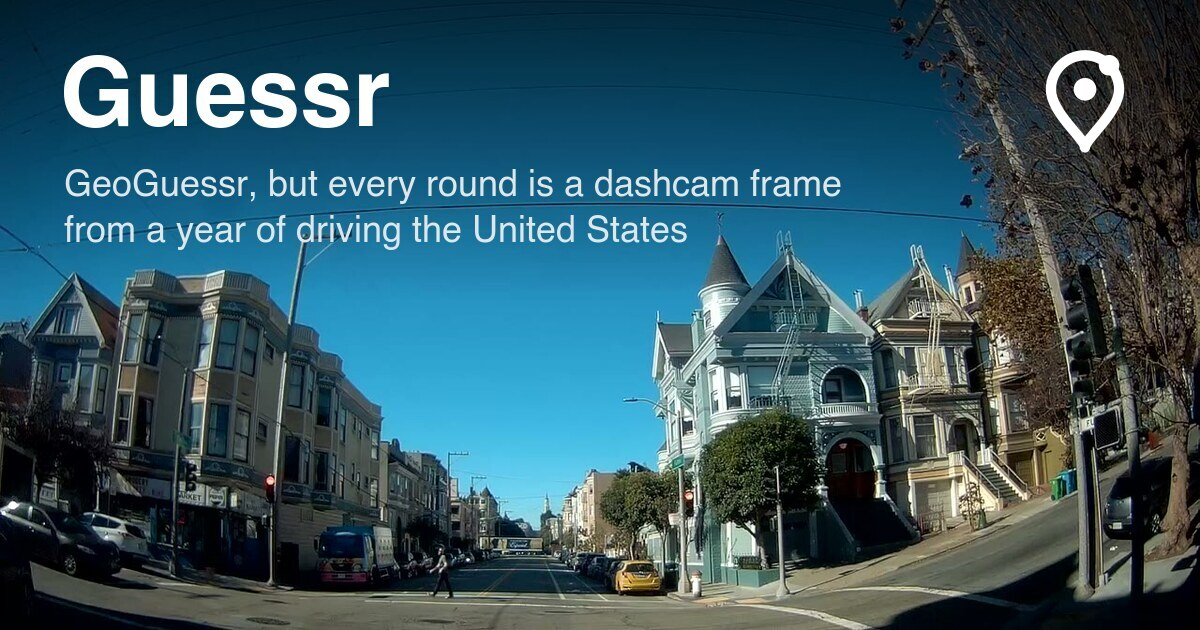
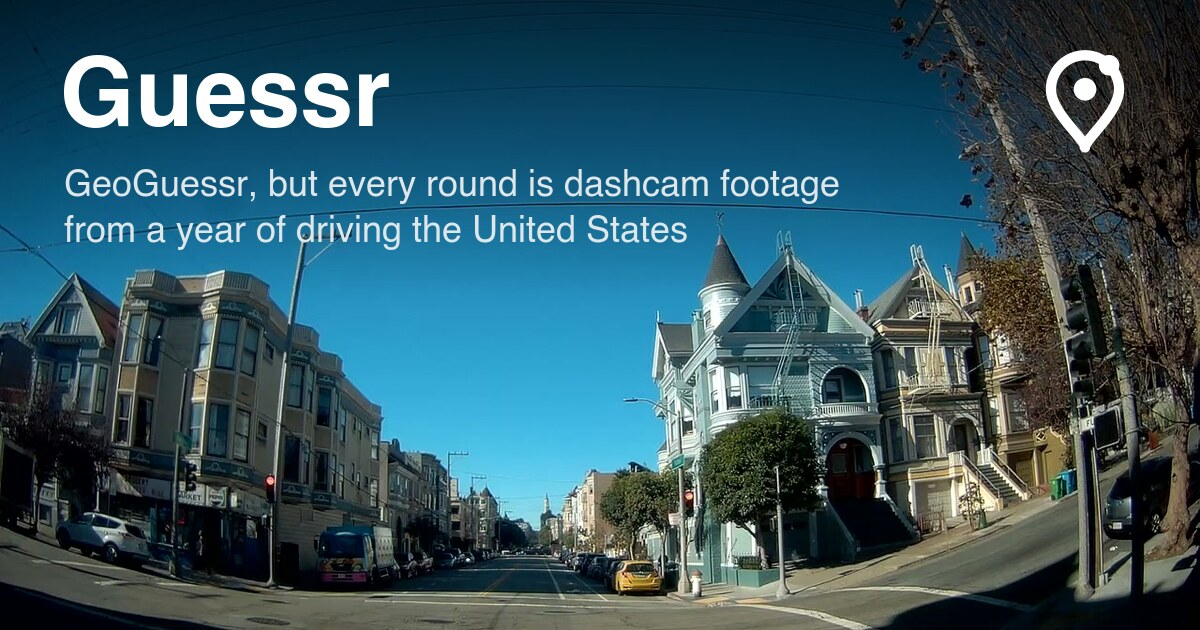
docs(web): say footage where the copy still said photo
The page was written for a still and describes one throughout: the
welcome dialog asks where a "screenshot" was taken, calls it "this
photo", and promises "the same photos" daily; the About panel says every
round is "a real frame from a dashcam".

The About panel also now mentions the pause and the zoom. Both are
undiscoverable otherwise -- one is a glyph in a corner and the other is
a scroll gesture -- and About is where this game explains its mechanics.

The share card had the same line baked into it, which mattered more than
the rest put together: the link preview is the whole distribution
mechanism, so "every round is a dashcam frame" was the wrong sentence on
the most-copied artifact here.

Rebuilding it meant finding the frame it was made from, which the README
recorded as lost. It was recoverable: scanning every San Francisco clip
in the corpus for the one whose untexted lower band matched the card
picks out 2018_1107_182338_002_opt at 0.039 RMSE, against 0.20+ for
every other candidate. The recipe now names that clip and timestamp
rather than a round-set frame, so it survives the next regeneration --
the round set is regenerable and the corpus is not.

diff --git a/web/index.html b/web/index.html
@@ -201,7 +201,7 @@
   /* Same number and same band colour as the pin on the map, which is the only
      thing tying a thumbnail to the answer it belongs to.
      The badges here and on the map keep fixed colours and a sans face rather
-     than following the theme: both sit on top of a photograph or a map tile,
+     than following the theme: both sit on top of footage or a map tile,
      neither of which changes with it, and at 11px ET Book is mush. */
   #sheet .cap { position: absolute; top: 4px; left: 4px;
                 display: flex; align-items: center; gap: .3rem;
@@ -213,10 +213,10 @@
   #mapwrap { min-height: 0; }
   #map { height: 100%; background: var(--color-bg); }
   /* While a round is being guessed the frame takes the whole pane and the map
-     rides over its bottom-right corner. The frame is a 1280px still and
-     squinting at it is the entire game, whereas the map only matters for the
-     few seconds spent placing a pin — an even split spends half the window on
-     the half that matters least, and puts the frame well under 1:1.
+     rides over its bottom-right corner. The frame is 1280px wide and squinting
+     at it is the entire game, whereas the map only matters for the few seconds
+     spent placing a pin — an even split spends half the window on the half that
+     matters least, and puts the frame well under 1:1.
      Hover or keyboard focus grows it; `wide` pins it open once the answer is
      revealed, when the map becomes the thing worth reading. `minimap` comes off
      entirely for the end-of-game board and the all-time map, which want the
@@ -234,7 +234,8 @@
                             border-radius: 8px; overflow: hidden;
                             /* Unthemed, like the badges: this floats on the
                                frame, and a border in the page's own colours
-                               vanishes into whatever the photo happens to be. */
+                               vanishes into whatever the footage happens to
+                               be. */
                             border: 2px solid #0006;
                             box-shadow: 0 8px 24px rgba(0, 0, 0, .4); }
     main.minimap #mapwrap:hover, main.minimap #mapwrap:focus-within,
@@ -292,9 +293,12 @@
   <details id="about" class="stat">
     <summary>about<span class="dot" id="aboutDot" hidden></span></summary>
     <div class="panel">
-      <p>Every round is a real frame from a dashcam, filmed on a year-long drive
-        around the United States in 2018. Five rounds a day, the same five for
-        everyone. Practice rounds are unlimited.</p>
+      <p>Every round is a few seconds of real dashcam footage, filmed on a
+        year-long drive around the United States in 2018. Five rounds a day, the
+        same five for everyone. Practice rounds are unlimited.</p>
+      <p>The clip loops. Pause it with the button in its corner or the space
+        bar, and zoom in &mdash; a road sign or a storefront is often legible
+        close up and unreadable at a glance.</p>
       <p>The footage comes from <b>A Dana Life</b>, which streams that drive
         around the clock &mdash; the whole trip, in order, forever. On Twitch a
         chat bot runs the same game against the live feed: type !guess to call
@@ -328,9 +332,9 @@
   </details>
 </header>
 <dialog id="welcome">
-  <h2>Drop a pin where you think this dashcam screenshot was taken</h2>
-  <p>This photo was taken during a year of travel in a campervan.</p>
-  <p>Everyone gets the same photos, refreshing daily</p>
+  <h2>Drop a pin where you think this dashcam footage was filmed</h2>
+  <p>These few seconds were filmed during a year of travel in a campervan.</p>
+  <p>Everyone gets the same clips, refreshing daily</p>
   <div class="actions">
     <button id="welcomePlay" autofocus>Play</button>
     <button id="welcomeMore" class="secondary">Learn more</button>

diff --git a/README.md b/README.md
@@ -265,11 +265,16 @@ and the icon, nothing else.
 mechanism: this game spreads by people pasting a URL. It's a hand-picked frame
 with the title and the mark set over it, made once and committed:
 
+It is cut straight from the corpus rather than from a round clip, so it does not
+go stale when the round set is regenerated — `2018_1107_182338_002_opt` at
+87.9s, a Victorian intersection in San Francisco:
+
 ```sh
 rsvg-convert -w 110 -h 110 web/favicon.svg -o /tmp/mark.png
 magick /tmp/mark.png -channel RGB -fill white -colorize 100 +channel /tmp/mark-white.png
 
-ffmpeg -y -ss 1.5 -i web/clips/<clip>.mp4 -frames:v 1 -q:v 2 /tmp/card.jpg
+ffmpeg -ss 87.9 -i /Volumes/ADanaLife/dashcam/_opt/clips/2018_1107_182338_002_opt.MP4 \
+  -frames:v 1 -vf "crop=iw:ih-70:0:0,scale=1280:-2" -q:v 2 /tmp/card.jpg
 
 magick /tmp/card.jpg \
   -gravity North -crop 1280x672+0+0 +repage -resize 1200x630! \
@@ -290,17 +295,19 @@ sinks into whatever foliage is behind it, and white matches the title.
 Swapping the frame means re-running that and updating `og:image:alt`. Keep it
 1200x630 — that's the aspect every scraper crops to.
 
-**The committed card predates the current round set.** Its frame — a San
-Francisco intersection — was drawn from a set that has since been regenerated,
-and nothing under `web/clips/` matches it any more, so the recipe above builds a
-*new* card rather than reproducing the committed one. Anything that has to
-change on the existing card gets composited onto it directly until the frame is
-reselected.
+The recipe names a corpus clip and a timestamp, which is what makes it
+reproducible. It used to name `web/frames/<frame>.jpg` from whatever round set
+was current, and the frame it wanted had long since left the set — so the recipe
+built a *new* card rather than the committed one, and the only way to change
+anything was to composite onto the existing image. Keying it to the corpus fixes
+that for good: a round set is regenerable, and the corpus clip behind this frame
+is not going anywhere.
 
-This is a standing consequence of the round set being regenerable, and the media
-leaving git makes it sharper: the card is now derived from an artifact that is
-not in the repo at all, so reproducing it needs the right tarball out of R2 as
-well as the right clip out of the tarball.
+(The source frame was recovered by scanning every San Francisco clip in the
+corpus for the one whose untexted lower band matched the committed card: 0.039
+RMSE against 0.20+ for every other candidate. The rebuilt card is that scene a
+fraction of a second off — near enough that the difference is a pedestrian
+mid-crossing.)
 
 ## Development
 
